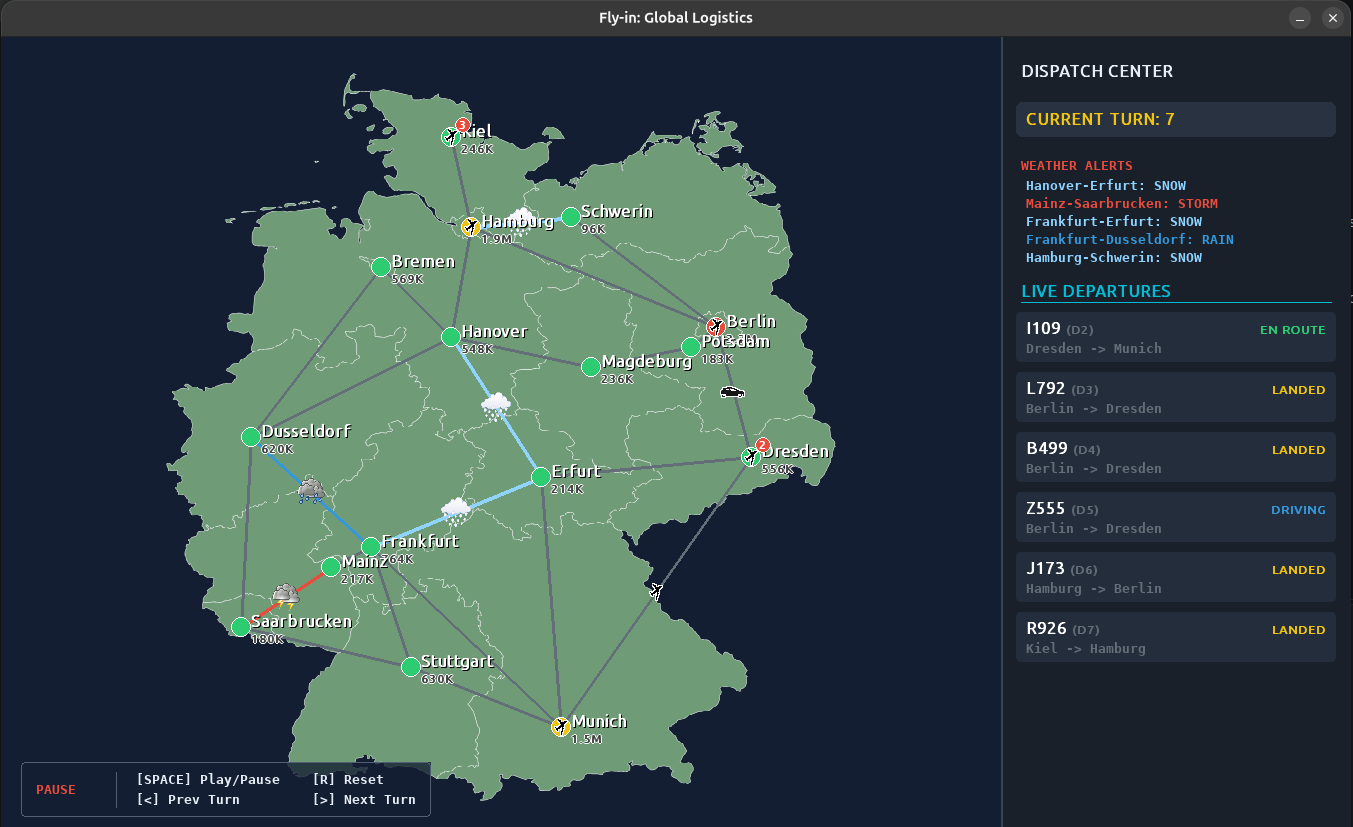
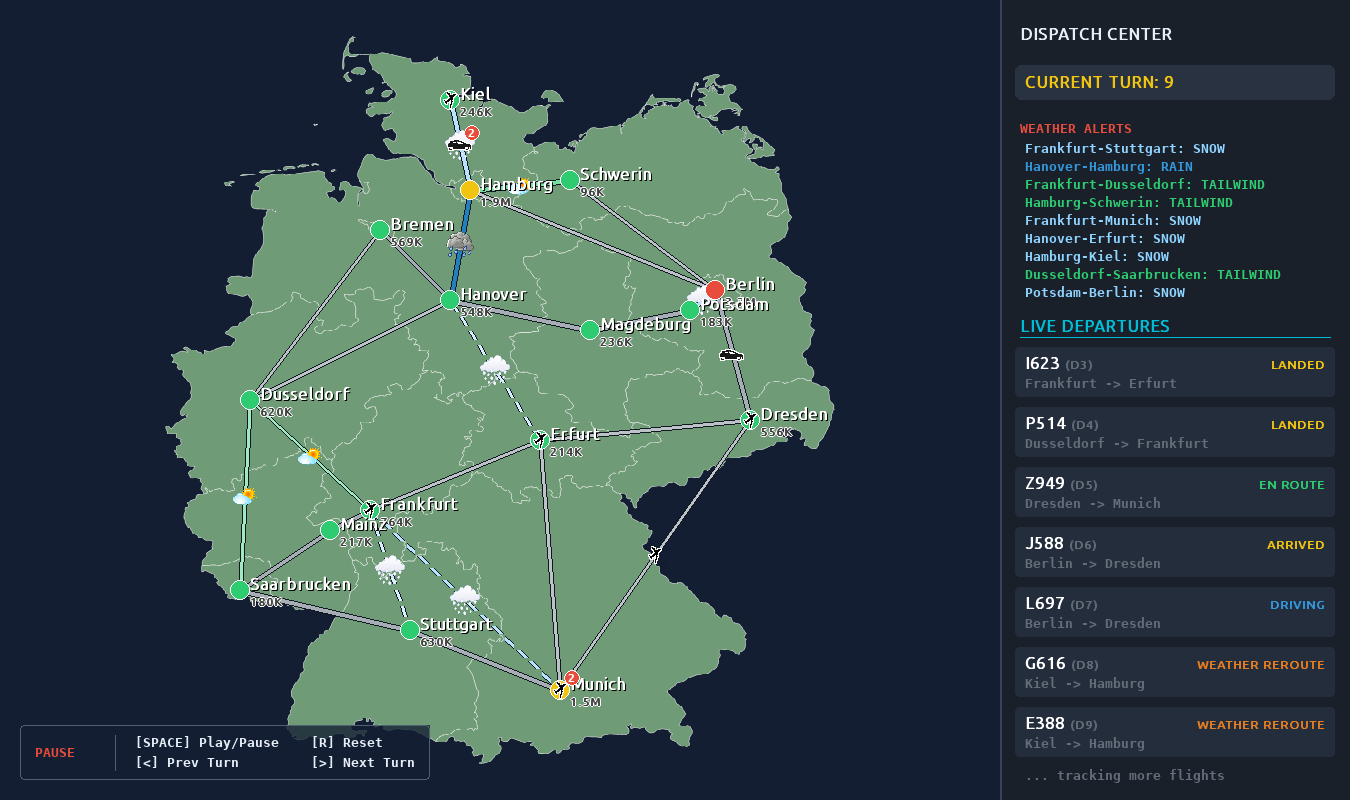
docs: refresh screenshots and project presentation
Replace the hand-taken dispatch-center screenshots with captures from
make screenshots and add the challenger map in the standard turn viewer.
Each caption states only what its turn shows.

The README explains how the dispatch center draws lane capacity, weather
and closures, that the standard viewer keeps the original drawing, and
how to regenerate the screenshots. A new Engineering section links the
tests, CI, strict typing, ADRs, bug triage and the measured Stage 8B
benchmark results.

ADR-028 records that lane capacity and closures are drawn only in the
geographic view and that the background comes from map configuration.

diff --git a/README.md b/README.md
@@ -14,9 +14,24 @@ written from scratch in Python. On top of the routing core, the project adds
 an aviation layer: real maps of Germany and Europe, distance-based road and
 air legs, live weather, and a Pygame dispatch center.
 
-![Dispatch center on the Europe map: aircraft en route, storms and snow on air lanes, weather alerts and a departure board](docs/images/europe-simulation.png)
+![Dispatch center on the Europe map at turn 13: air lanes closed by snow and storms drawn dashed, rain lanes open, wider lanes for higher capacity, weather alerts, and the departure board](docs/images/europe-simulation.png)
 
-![Dispatch center on the Germany map: aircraft and a car on a road leg, snow and rain on lanes, and the departure board](docs/images/germany-simulation.png)
+_Europe, turn 13: snow and storms close air lanes (dashed) while rain
+leaves them open, and wider lanes have a higher capacity._
+
+![Dispatch center on the Germany map at turn 9: closed air lanes and open road lanes in snow, cars on road legs, and weather reroutes on the departure board](docs/images/germany-simulation.png)
+
+_Germany, turn 9: snow closes the air lanes but not the roads, where cars
+keep driving; two flights from Kiel are on a weather reroute._
+
+![Standard turn viewer on the challenger map at turn 24: aircraft spread over parallel routes, lanes in use by multi-turn legs in blue, and the turn's movements above the map](docs/images/challenger-turn-viewer.png)
+
+_Challenger map, turn 24, in the standard turn viewer: aircraft spread
+over parallel routes, blue lanes carry legs that take more than one turn,
+and the turn's movements are listed above the map._
+
+The screenshots are generated by `make screenshots` (see
+[Development](#development)).
 
 ## Highlights
 
@@ -34,8 +49,9 @@ air legs, live weather, and a Pygame dispatch center.
   aircraft; roads stay open but get slower.
 - **Real maps.** Germany (16 hubs) and Europe (24 hubs) with real city names,
   populations, and distances.
-- **Aviation dispatch center.** A Pygame interface with a geographic map,
-  departure board, weather alerts, and a replayable timeline.
+- **Aviation dispatch center.** A Pygame interface with a geographic map
+  whose lanes show capacity, weather, and closures, a departure board,
+  weather alerts, and a replayable timeline.
 - **Event-driven core.** The simulation emits typed events; every output mode,
   from plain text to Pygame, is a listener on the same event stream.
 
@@ -215,11 +231,13 @@ Weather is random and not seeded, so two runs of the same map can differ.
 
 `--pygame-airlines` opens an air-traffic-control style view:
 
-- geographic background for the Germany and Europe maps
-- cities sized and colored by population
+- geographic background for the Germany and Europe maps, and a plain one
+  for other maps
+- cities colored by population
 - airplanes on air legs and cars on road legs, outlined with `pygame.mask` so
   they stay readable on the map
-- lanes colored by current weather, with weather icons
+- lanes that show capacity, weather, and closures (see below), with weather
+  icons
 - a departure board with a flight number and status for every aircraft:
   `EN ROUTE` on an air leg, `DRIVING` on a road leg, `WEATHER REROUTE` on
   the first leg after weather changed the route, and, at an intermediate
@@ -239,6 +257,25 @@ forwards through time.
 | `R` | Reset to turn 0 |
 
 The standard viewer (`--pygame`) uses the same controls.
+
+### Reading the map
+
+In the dispatch center, each line style answers one question:
+
+| Question | How the lane shows it |
+| --- | --- |
+| How many aircraft can use it at once? | Width: 3 px for capacity 1, 4 px for 2–3, 5 px for 4–6 and for 7 or more. Within its color, a larger capacity is a deeper shade, which alone sets 7+ apart from 4–6 |
+| What is the weather? | Color: gray clear, red storm, pale blue snow, blue rain, green tailwind, with an icon on lanes that are not clear |
+| Can a leg start on it? | A dashed lane is closed: the simulator reported that its weather closes it, as storm and snow do on air lanes. A road in the same weather stays solid |
+| Air or road? | No line style of its own: an airplane flies an air leg, a car drives a road leg |
+
+Every lane has a thin dark outline, so pale and deep shades stay visible on
+both land and sea. Wider lanes are drawn first, so narrower ones stay
+visible where they cross.
+
+The standard viewer keeps the drawing of the original assignment: dark
+lanes with a white edge, and a wider blue lane while an aircraft is on a
+leg that takes more than one turn. It does not show capacity or weather.
 
 ## Map format
 
@@ -383,12 +420,41 @@ make clean         # remove caches, coverage data, and the virtual environment
 `make check` or CI. Method and results are in
 [docs/engineering/performance-benchmark.md](docs/engineering/performance-benchmark.md).
 
+`make screenshots` regenerates the README screenshots in `docs/images`. It
+replays fixed turns headless, with seeded weather and flight numbers, and
+saves the window surface without a window frame. Two runs on the same
+machine give identical files; fonts come from the system, so another
+machine may render text slightly differently.
+
 Dependencies are declared in `pyproject.toml` and pinned in `uv.lock`. All
 `make` targets run with `--locked`, so they never modify `uv.lock`. After
 changing dependencies, run `uv lock`, review the diff, and commit both files.
 
 Changes reach `main` only through pull requests, and every pull request is
 squash-merged into a single commit.
+
+## Engineering
+
+- **Tests.** A pytest suite of unit and integration tests, including
+  headless Pygame tests and regression tests that pin the standard
+  viewer's drawing and the content of each README screenshot.
+- **CI.** A GitHub Actions workflow
+  ([ci.yml](.github/workflows/ci.yml)) runs flake8, `mypy --strict`, and the
+  tests on Python 3.14 for every pull request and every push to `main`.
+- **Typing.** All sources and tests pass `mypy --strict`.
+- **Decisions.** Design decisions are recorded as ADRs in
+  [docs/engineering/decisions.md](docs/engineering/decisions.md); questions
+  still open are in
+  [docs/engineering/open-decisions.md](docs/engineering/open-decisions.md).
+- **Bugs.** [docs/engineering/bug-triage.md](docs/engineering/bug-triage.md)
+  records each bug found, its cause, its fix, and its status.
+- **Performance.** A reproducible benchmark measures planning and turn
+  costs on synthetic and bundled maps. Indexing lanes by hub made median
+  runs 4.2–4.5× faster on the synthetic graph-size, lane-density, and
+  aircraft sweeps, up to 12.5× at 400 hubs, and lowered the growth exponent
+  against lanes from 1.95 to 1.12. Bundled maps gained less (median
+  1.26×). Simulation results stayed byte-identical. Details are in
+  [docs/engineering/performance-benchmark.md](docs/engineering/performance-benchmark.md#stage-8b-lane-index).
 
 ## Background
 

diff --git a/docs/engineering/decisions.md b/docs/engineering/decisions.md
@@ -40,6 +40,7 @@ text; the superseding ADR states what it replaces.
 | [ADR-025](#adr-025) | The map format is strict: missing input takes a default, invalid input is an error | Accepted |
 | [ADR-026](#adr-026) | Hub capacity is observed as committed load | Accepted |
 | [ADR-027](#adr-027) | Graph lookups follow a fixed contract and use a lane index | Accepted |
+| [ADR-028](#adr-028) | Lane capacity and closures are drawn only in the geographic view | Accepted |
 
 ---
 
@@ -1847,3 +1848,67 @@ written contract before their implementation could change.
   lane, paid while parsing.
 - `find_route` still scans `graph.connections` itself and is unchanged.
 
+## ADR-028
+
+### Lane capacity and closures are drawn only in the geographic view
+
+- **Status:** Accepted
+- **Date:** 2026-10-12
+
+**Context.** Neither Pygame viewer showed a lane's capacity. Capacity
+varies only on the Germany and Europe maps; every lane of the original
+challenge maps has capacity 1. The dispatch center coloured lanes by
+weather but drew a lane closed by a storm like an open road in the same
+storm, and chose its background by looking for "europa" in `sys.argv`, so
+every other map, a challenge map included, was drawn over Germany. The
+standard turn viewer is the original assignment's view and stays as it
+was.
+
+**Decision.**
+
+- **Geographic view only.** Lane styling lives in
+  `airlanes/output/pygame/lanes.py` and only the dispatch center uses it.
+  The style follows the viewer, never the map's size or capacities. The
+  standard viewer keeps its drawing: lane colours, widths, white edges,
+  the 6 px offset, active lanes and hubs.
+- **Capacity.** Width by capacity class: 3 px for 1, 4 px for 2–3, 5 px
+  for 4–6 and 7+. Within each weather colour family the shade deepens with
+  the class, so 7+ differs from 4–6 by shade only.
+- **Weather and closure.** The colour family is the lane's weather. A lane
+  is dashed while the last `WeatherChanged` for it reported `is_open`
+  false; every lane starts open. The view does not repeat the weather
+  rules.
+- **Legibility.** Every lane has a 1 px dark outline. Wider lanes are
+  drawn first, and all outlines before any lane colour. Lanes joining the
+  same two hubs are spread symmetrically; a single lane joins the hub
+  centres.
+- **Background.** `AirlinesWindow` takes its background explicitly.
+  `MAP_BACKGROUNDS` names the image of each bundled geographic map by file
+  name, and any other map gets a plain background.
+
+**Rationale.**
+
+- Choosing the style by viewer keeps the challenge maps exactly as they
+  were and needs no rule about which map is "geographic". A rule based on
+  hub count or capacities would change silently with a new map.
+- Width alone cannot separate 4–6 from 7+ within a 5 px limit; shade can.
+  Snow stays in pale shades and rain in deep ones, because the two blues
+  differ only in lightness. Clear and tailwind avoid the lightness of the
+  Germany land. Measured against that land, the clear shade of capacity
+  2–3 had a contrast ratio of 1.09 before this adjustment.
+- A light outline made lanes look hollow and hid snow; a translucent one
+  lost the storm lane on the red and pink countries of the Europe map.
+- Closure comes from the event the simulator already emits, so the view
+  cannot disagree with the simulation.
+
+**Consequences.**
+
+- Every frame of the standard viewer on all twelve bundled maps is
+  pixel-identical to the Stage 9b base (207 frames). A test pins the lines
+  and circles it draws on the ten original challenge maps.
+- Simulation behaviour is unchanged: event streams, turn results, capacity
+  snapshots, CLI and text output, parsing, and benchmark fingerprints.
+- The dispatch center looks different on every map. A map other than
+  Germany or Europe now has a plain background instead of Germany.
+- An air and a road lane have the same line style; the mode shows only
+  through the vehicle on the lane and through closures.
